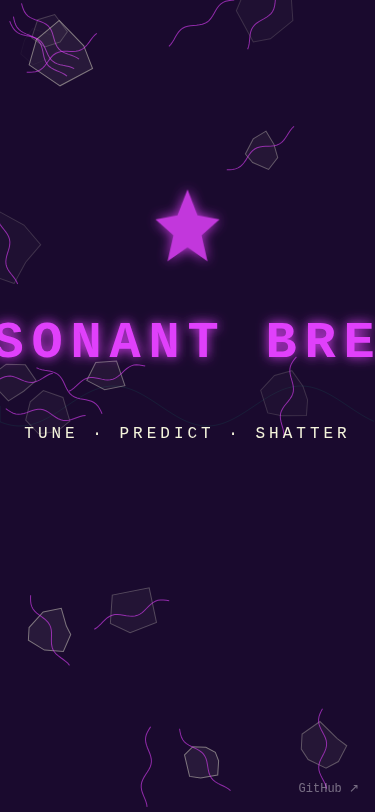
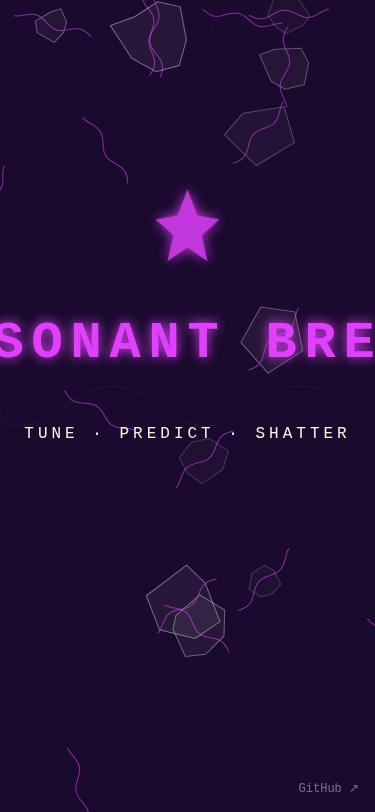
Fix: responsive SVG title font size for narrow viewports

diff --git a/index.html b/index.html
@@ -107,15 +107,15 @@ canvas { position: fixed; top: 0; left: 0; width: 100%; height: 100%; touch-acti
         style="animation: crystalPulse 3.2s ease-in-out infinite; transform-origin: 0 0;"
       />
     </g>
-    <!-- Option A: Title glow -->
+    <!-- Option A: Title glow - responsive font size -->
     <text id="mainTitle"
       x="50%" y="44%"
       text-anchor="middle"
       font-family="'Courier New', monospace"
-      font-size="52px"
+      font-size="clamp(28px, 7vw, 52px)"
       font-weight="700"
       fill="#E040FB"
-      letter-spacing="0.15em"
+      letter-spacing="0.12em"
       filter="url(#glow)"
       style="animation: fadeIn 1.8s ease-out forwards; opacity: 0;"
     >RESONANT BREAK</text>
@@ -123,9 +123,9 @@ canvas { position: fixed; top: 0; left: 0; width: 100%; height: 100%; touch-acti
       x="50%" y="54%"
       text-anchor="middle"
       font-family="'Courier New', monospace"
-      font-size="16px"
+      font-size="clamp(11px, 3vw, 16px)"
       fill="#F5F5DC"
-      letter-spacing="0.25em"
+      letter-spacing="0.2em"
       opacity="0.7"
       style="animation: fadeIn 2.4s ease-out forwards; opacity: 0;"
     >TUNE · PREDICT · SHATTER</text>
@@ -133,9 +133,9 @@ canvas { position: fixed; top: 0; left: 0; width: 100%; height: 100%; touch-acti
       x="50%" y="70%"
       text-anchor="middle"
       font-family="'Courier New', monospace"
-      font-size="13px"
+      font-size="clamp(10px, 2.5vw, 13px)"
       fill="#00FFB3"
-      letter-spacing="0.3em"
+      letter-spacing="0.25em"
       style="animation: blink 1s step-end infinite; opacity: 0; animation-delay: 1.5s; animation-fill-mode: forwards;"
     >PRESS ANYWHERE TO BEGIN</text>
   </svg>
